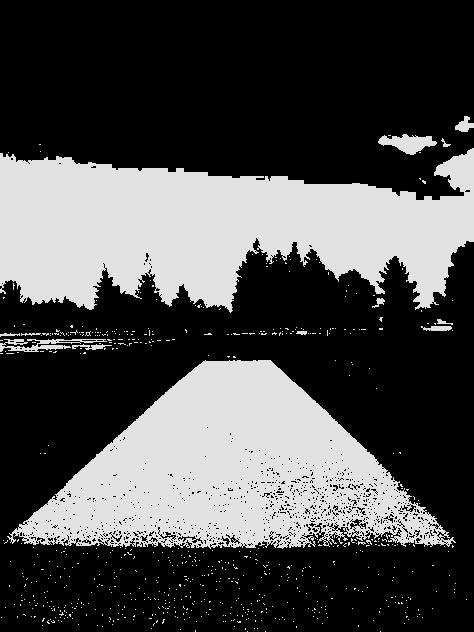
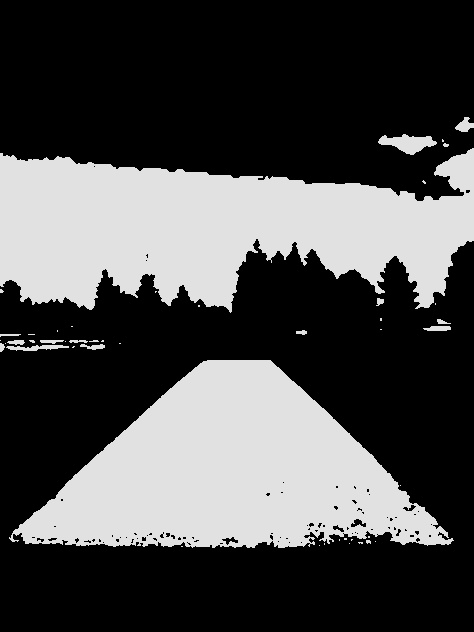
adding additional

diff --git a/Run.py b/Run.py
@@ -6,7 +6,7 @@ from os import listdir
 from os.path import isfile, join
 from PIL import Image
 
-
+## Setting Environment
 
 onlyfiles = [f for f in listdir("Images_test_set")
              if isfile(join("Images_test_set", f))]
@@ -14,40 +14,48 @@ onlyfiles = [f for f in listdir("Images_test_set")
 print(onlyfiles)
 
 destination0 = 'Output_BW_test_set/'
-destination1 = 'Mask/'
+destination1 = 'Border/'
+destination2 = 'Mask/'
+destination3 = 'Edge/'
+
+
+### Loop for each image boundry detection
+
 for i in onlyfiles:
    path = 'Images_test_set/'+i
    img = cv2.imread(path)
    print(img.shape)
+   ### Croping to be done
+   ## Slicing to crop the image
+   ## Gray
    gray_image = cv2.cvtColor(img, cv2.COLOR_BGR2GRAY)
+   ## Edge
+   edges = cv2.Canny(gray_image, threshold1=150, threshold2=200)
+   cv2.imwrite(destination3+i, edges)
+   ##B&W
+   gray_image = cv2.GaussianBlur(gray_image, (5,5), 1)
+   blur = cv2.GaussianBlur(gray_image, (0,0), sigmaX=33, sigmaY=33)
+   divide = cv2.divide(gray_image, blur, scale=255)
+   thresh = cv2.threshold(divide, 0, 255, cv2.THRESH_BINARY+cv2.THRESH_OTSU)[1]
+   kernel = cv2.getStructuringElement(cv2.MORPH_RECT, (3, 3))
+   morph = cv2.morphologyEx(thresh, cv2.MORPH_CLOSE, kernel)
+
+   cv2.imshow('Gray_scale', gray_image)
    (thresh, binary) = cv2.threshold(gray_image, 150, 225, cv2.THRESH_BINARY)
    cv2.imwrite(destination0+i, binary)
+   
+   ## Mask
    mask = cv2.imread(destination0+i, 0)
    mask = cv2.threshold(mask, 0, 255, cv2.THRESH_BINARY + cv2.THRESH_OTSU)[1]
-   img[mask == 255] = (36, 255, 12)
-   cv2.imwrite(destination1+i, img)
+   img[mask == 255] = (255, 255, 255)##change mask 
+   cv2.imwrite(destination2+i, img)
+ 
+   number_of_white_pix = np.sum(edges == 255)
+   number_of_black_pix = np.sum(edges == 0)
 
-   cv2.imshow('image', img)
-   #cv2.imshow('mask', mask)
-   
+   print('Number of white pixels:', number_of_white_pix)
+   print('Number of black pixels:', number_of_black_pix)
+   cv2.imshow('mask', mask)  
 
-
-   ##########BOX##########
-   #cv2.rectangle(image, start_point, end_point, color, thickness)
-   #cv2.rectangle(Face, (x, y), (x+w, y+h), (255, 255, 255), thickness)
+   ## wait
    cv2.waitKey(1000)
-
-   
-###################################################333
-   #img1 = cv2.cvtColor(binary,cv2.COLOR_BGR2RGB)
-   #hsv = cv2.cvtColor(img1, cv2.COLOR_RGB2HSV)
-   # define range of brown color in HSV
-   #lower_brown = np.array([0, 0, 255])
-   #upper_brown = np.array([255, 255, 255])
-   # Threshold the HSV image to get only blue colors
-   #mask = cv2.inRange(hsv, lower_brown, upper_brown)
-   # Bitwise-AND mask and original image
-   #patch = cv2.bitwise_and(img1, img1, mask=mask)
-   #cv2.waitKey(1000)
-   #cv2.imshow('Patch of pitch', patch)
-   #cv2.imwrite(destination1+i, patch)

diff --git a/Final_Run.py b/Final_Run.py
@@ -1,0 +1,45 @@
+from PIL import Image, ImageFilter
+import cv2
+import numpy as np
+import matplotlib.pyplot as plt
+
+from os import listdir
+from os.path import isfile, join
+from PIL import Image
+
+
+onlyfiles = [f for f in listdir("Images_test_set")
+             if isfile(join("Images_test_set", f))]
+
+print(onlyfiles)
+destination = 'Images_test_set/'
+destination0 = 'Output_BW_test_set/'
+destination1 = 'Border/'
+destination2 = 'Mask/'
+for i in onlyfiles:
+   path = destination0+i
+   path2 = destination+i
+   bgrimg = cv2.imread(path2)
+   img = cv2.imread(path)
+   bgrimg = cv2.resize(bgrimg, (400, 500))
+   img = cv2.resize(img, (400, 500))
+   gray = cv2.cvtColor(img, cv2.COLOR_BGR2GRAY)
+   ret, gray = cv2.threshold(gray, 127, 255, 0)
+   gray2 = gray.copy()
+   cv2.imshow('output0', gray2)
+   mask = np.zeros(gray.shape, np.uint8)
+   contours, hier = cv2.findContours(gray, cv2.RETR_LIST, cv2.CHAIN_APPROX_SIMPLE)
+   for cnt in contours:
+      if 2000 < cv2.contourArea(cnt) < 5000000:
+         cv2.drawContours(img, [cnt], 0, (0, 255, 0), 2)
+         cv2.drawContours(mask, [cnt], 0, 255, -1)
+         cv2.drawContours(bgrimg, [cnt], 0, (0, 255, 0), 2)
+   cv2.imwrite(destination1+i,img) 
+   cv2.imshow('BGRout', bgrimg)     
+   cv2.imshow('output', img)
+   #cv2.imshow(mask)
+   cv2.waitKey(1000)
+
+
+
+
